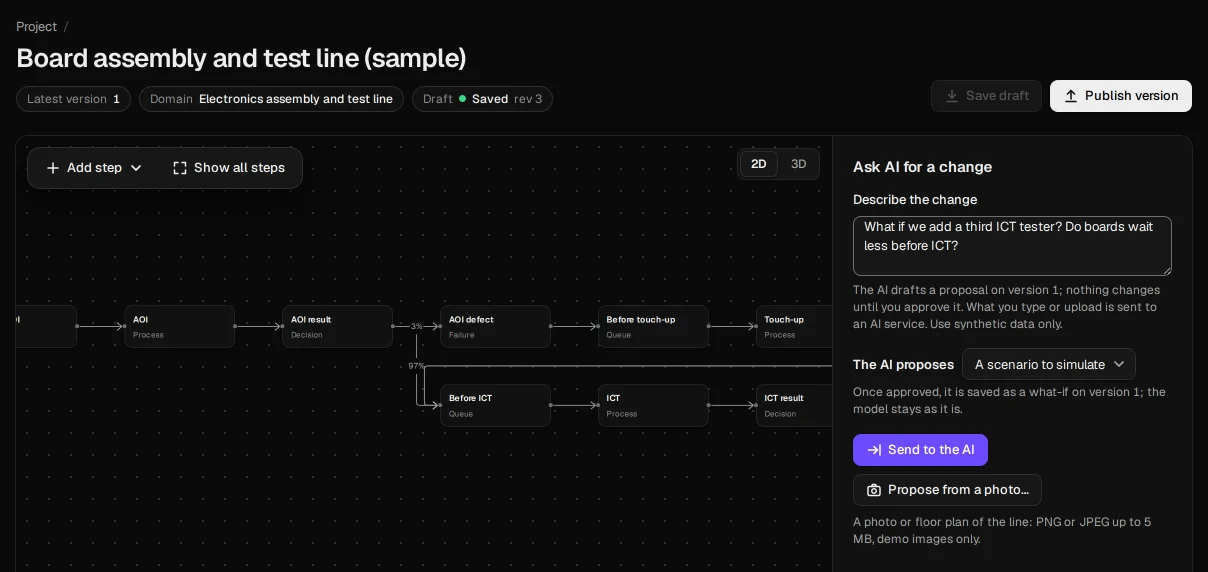
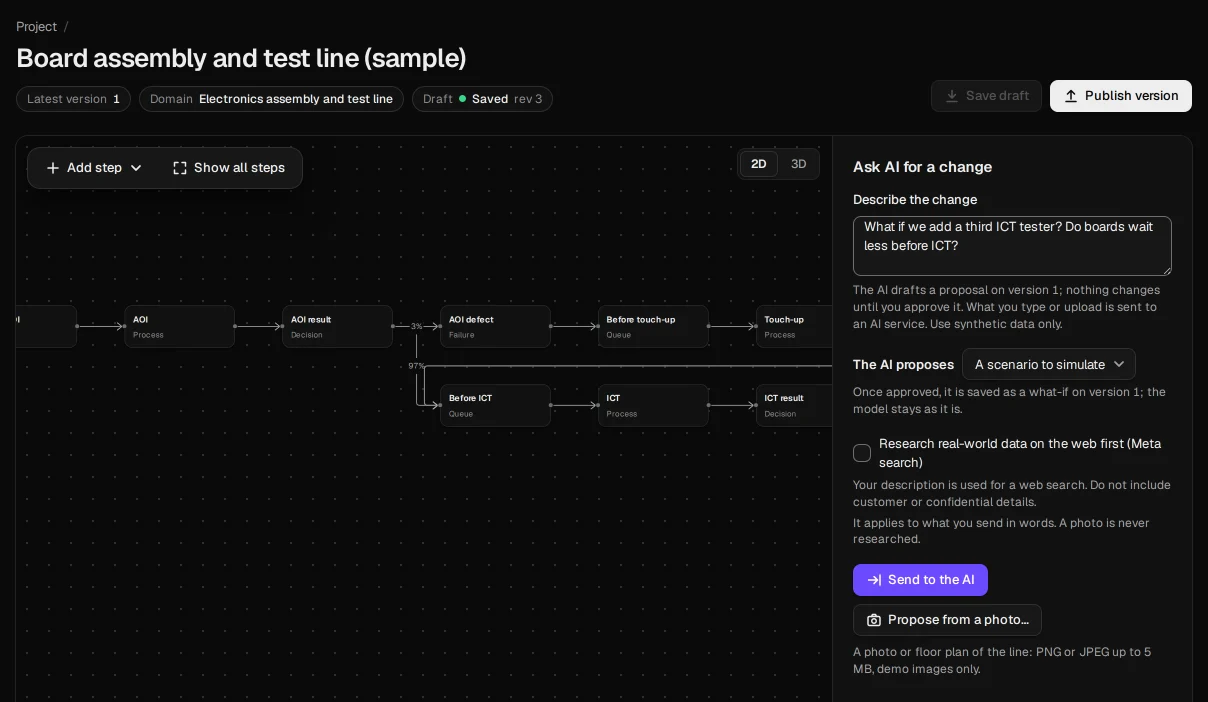
H-052 (1): the proposals that did not work fold away; the landing's canvas shows research
The model's proposal list shows the ones to review first; failed and
refused proposals are counted and folded below them in a closed <details>
("2 proposals that did not work"), one click from open, and the list never
says there are none when only those exist. The landing's canvas picture is
shot again with apps/web-e2e/scripts/landing-shots.mjs: it now shows the
"Research real-world data on the web first (Meta search)" box; the other
pictures came out byte-identical.

make frontend-test: 58 files, 1218 tests pass; landing.test.tsx 13 pass;
make spec-check exit 0. The demo data needed no change: the live "Board
assembly and test line" has five finished what-if comparisons, and its AI
explanation is asked for live on the results page.

Claude-Session: https://claude.ai/code/session_01LowVnFxYV15KBRL9Teo7d1

diff --git a/apps/web/features/models/model-lists.tsx b/apps/web/features/models/model-lists.tsx
@@ -60,36 +60,50 @@ const proposalTone: Readonly<Record<Proposal["status"], string>> = {
   conflicted: "warning",
 };
 
+// H-052: a proposal the server refused or the AI never finished is folded
+// away under the list, counted, so the first look is the ones to review.
+const unfinished = (p: Proposal) => p.status === "failed" || p.status === "invalid";
+
 export function ProposalsPage({ modelId }: { modelId: string }) {
   const api = useApi();
   const { t, dateTime } = useI18n();
   const [remote, retry] = useRemote((signal) => api.listProposals(modelId, { signal }), api, modelId);
+  const rows = (items: readonly Proposal[]) => (
+    <ul className={list.list}>
+      {items.map((p) => (
+        <li key={p.proposal_id}>
+          <Link href={`/proposals/${p.proposal_id}`}>{p.summary == null ? t("proposals.noSummary") : <bdi>{visible(p.summary, "prose")}</bdi>}</Link>
+          <span className={list.pill} data-tone={proposalTone[p.status]}>
+            {t(`proposals.state.${p.status}`)}
+          </span>
+          <span className={list.meta}>{t(`proposals.mode.${p.mode}`)}</span>
+          <span className={list.meta}>{dateTime(p.created_at)}</span>
+        </li>
+      ))}
+    </ul>
+  );
   return (
     <WithModel modelId={modelId}>
       {(model) => (
         <Section model={model} title={t("proposals.title")}>
           <RemoteView remote={remote} what="proposals" onRetry={retry} headingLevel={2}>
-            {(page) =>
-              page.items.length === 0 ? (
-                <p className={list.empty}>{t("proposals.empty")}</p>
-              ) : (
+            {(page) => {
+              if (page.items.length === 0) return <p className={list.empty}>{t("proposals.empty")}</p>;
+              const shown = page.items.filter((p) => !unfinished(p));
+              const folded = page.items.filter(unfinished);
+              return (
                 <>
-                  <ul className={list.list}>
-                    {page.items.map((p) => (
-                      <li key={p.proposal_id}>
-                        <Link href={`/proposals/${p.proposal_id}`}>{p.summary == null ? t("proposals.noSummary") : <bdi>{visible(p.summary, "prose")}</bdi>}</Link>
-                        <span className={list.pill} data-tone={proposalTone[p.status]}>
-                          {t(`proposals.state.${p.status}`)}
-                        </span>
-                        <span className={list.meta}>{t(`proposals.mode.${p.mode}`)}</span>
-                        <span className={list.meta}>{dateTime(p.created_at)}</span>
-                      </li>
-                    ))}
-                  </ul>
+                  {shown.length > 0 && rows(shown)}
+                  {folded.length > 0 && (
+                    <details className={list.folded}>
+                      <summary>{t("proposals.unfinished", { count: folded.length })}</summary>
+                      {rows(folded)}
+                    </details>
+                  )}
                   <MorePages cursor={page.next_cursor} shown={page.items.length} what="proposals" />
                 </>
-              )
-            }
+              );
+            }}
           </RemoteView>
         </Section>
       )}

diff --git a/apps/web/tests/shell-h042.test.tsx b/apps/web/tests/shell-h042.test.tsx
@@ -159,6 +159,41 @@ describe("the model's list pages (H-042)", () => {
     expect(await violations()).toEqual([]);
   });
 
+  // H-052: the first look is the proposals to review; the ones that did not
+  // work are counted and folded away below them, still one click from open.
+  it("folds the failed and refused proposals away below the others, counted, and closed", async () => {
+    answers[`GET /api/v1/models/${MODEL}`] = () => json(200, model);
+    const base = { organization_id: ORG, model_id: MODEL, base_version_id: model.latest_version.id, created_by: "usr_01M4YDQK0016KTK4JM6KAHZ6BR", requires_confirmation: true, created_at: "2026-10-29T09:00:00Z" };
+    answers[`GET /api/v1/models/${MODEL}/ai-proposals`] = () => json(200, { items: [
+      { ...base, proposal_id: "aip_01M4YDQK00TA0000000000H0A1", mode: "scenario", status: "failed" },
+      { ...base, proposal_id: "aip_01M4YDQK00TA0000000000H0A2", mode: "scenario", status: "approved", summary: "A third ICT tester." },
+      { ...base, proposal_id: "aip_01M4YDQK00TA0000000000H0A3", mode: "edit", status: "invalid", summary: "Bad patch." },
+    ], next_cursor: null });
+    const el = await page(<ProposalsPage modelId={MODEL} />);
+    await settle();
+    const hrefs = (root: Element) => [...root.querySelectorAll(":scope > ul > li > a")].map((a) => a.getAttribute("href"));
+    const folded = el.querySelector("details")!;
+    expect(folded.open).toBe(false);
+    expect(folded.querySelector("summary")?.textContent).toBe("2 proposals that did not work");
+    expect(hrefs(folded)).toEqual(["/proposals/aip_01M4YDQK00TA0000000000H0A1", "/proposals/aip_01M4YDQK00TA0000000000H0A3"]);
+    expect([...el.querySelectorAll("li a")].map((a) => a.getAttribute("href"))[0]).toBe("/proposals/aip_01M4YDQK00TA0000000000H0A2");
+    expect(el.textContent).not.toContain(en["proposals.empty"]);
+    expect(await violations()).toEqual([]);
+  });
+
+  it("with only proposals that did not work, folds them all and never says there are none", async () => {
+    answers[`GET /api/v1/models/${MODEL}`] = () => json(200, model);
+    const base = { organization_id: ORG, model_id: MODEL, base_version_id: model.latest_version.id, created_by: "usr_01M4YDQK0016KTK4JM6KAHZ6BR", requires_confirmation: true, created_at: "2026-10-29T09:00:00Z" };
+    answers[`GET /api/v1/models/${MODEL}/ai-proposals`] = () => json(200, { items: [
+      { ...base, proposal_id: "aip_01M4YDQK00TA0000000000H0A1", mode: "scenario", status: "failed" },
+    ], next_cursor: null });
+    const el = await page(<ProposalsPage modelId={MODEL} />);
+    await settle();
+    expect(el.querySelector("details summary")?.textContent).toBe("1 proposal that did not work");
+    expect(el.querySelectorAll("li")).toHaveLength(1);
+    expect(el.textContent).not.toContain(en["proposals.empty"]);
+  });
+
   // Review M3: the summary is the AI's prose, which the server does not keep
   // to visible characters; in the list it is shown as on the proposal page.
   it("shows a summary's hidden or reordering characters, isolated from the row, and says when more proposals or runs exist", async () => {

diff --git a/apps/web/ui/list.module.css b/apps/web/ui/list.module.css
@@ -37,6 +37,18 @@
   color: var(--gm-color-ink-2);
 }
 
+/* Rows folded away under a list (H-052: the proposals that did not work). */
+.folded {
+  max-width: var(--gm-content-width);
+  margin: 0 0 var(--gm-space-gutter);
+  color: var(--gm-color-ink-2);
+}
+
+.folded > summary {
+  cursor: pointer;
+  margin-bottom: var(--gm-space-md);
+}
+
 /* A row's name when it is not a link (a run without a scenario). */
 .name {
   font-weight: var(--gm-font-weight-strong);

diff --git a/apps/web/messages/en.ts b/apps/web/messages/en.ts
@@ -24,6 +24,7 @@ export const en = {
   "proposals.empty": "No AI proposals yet. Ask the AI on the canvas.",
   "proposals.mode.edit": "Change",
   "proposals.mode.scenario": "Scenario",
+  "proposals.unfinished": { one: "1 proposal that did not work", other: "{count} proposals that did not work" },
   "proposals.noSummary": "No summary yet",
   "proposals.state.generating": "Writing",
   "proposals.state.needs_input": "Needs input",

diff --git a/apps/web/messages/zh-Hant.ts b/apps/web/messages/zh-Hant.ts
@@ -23,6 +23,7 @@ export const zhHant: Catalog = {
   "proposals.empty": "還沒有 AI 提案。可以在畫布頁請 AI 提出。",
   "proposals.mode.edit": "修改",
   "proposals.mode.scenario": "情境",
+  "proposals.unfinished": { other: "{count} 個沒成功的提案" },
   "proposals.noSummary": "還沒有摘要",
   "proposals.state.generating": "撰寫中",
   "proposals.state.needs_input": "需要資訊",

diff --git a/apps/web/features/landing/shots.ts b/apps/web/features/landing/shots.ts
@@ -7,7 +7,7 @@ export type ShotData = { width: number; height: number; themes: { light: string[
 export const shots = {
   "canvas": {
     "width": 1208,
-    "height": 572,
+    "height": 702,
     "themes": {
       "light": [
         "canvas-light-1208.webp",
